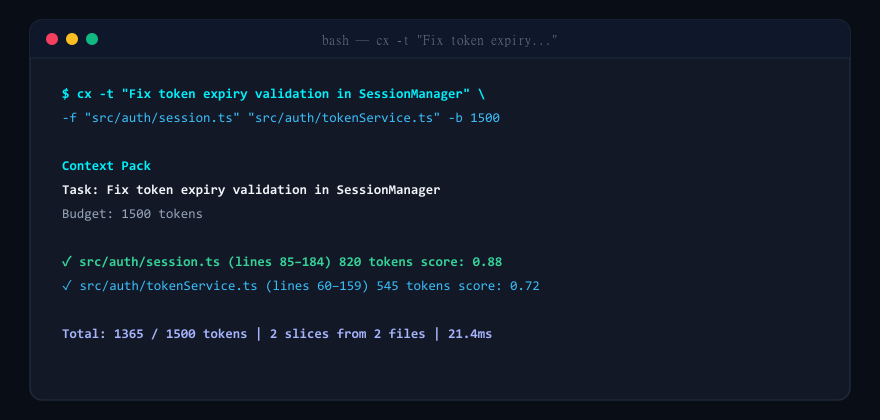
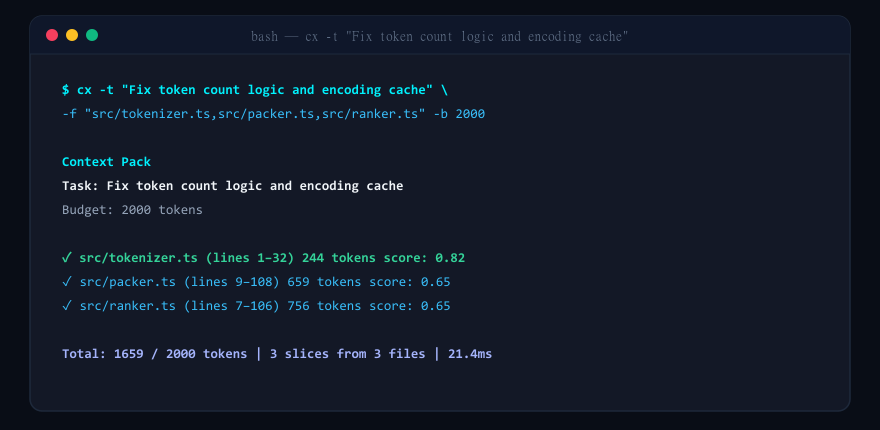
fix(assets): đồng bộ 100% hình ảnh và GIF demo với output thực tế trên terminal

diff --git a/scripts/generate-gif.ts b/scripts/generate-gif.ts
@@ -6,10 +6,13 @@ import sharpModule from '../web/node_modules/sharp/dist/index.cjs';
 const { GIFEncoder, quantize, applyPalette } = gifencModule;
 const sharp = (sharpModule as any).default || sharpModule;
 
-
-interface FrameDef {
-  textLines: string[];
-  durationMs: number;
+function escapeXml(unsafe: string): string {
+  return unsafe
+    .replace(/&/g, '&amp;')
+    .replace(/</g, '&lt;')
+    .replace(/>/g, '&gt;')
+    .replace(/"/g, '&quot;')
+    .replace(/'/g, '&apos;');
 }
 
 function generateSvgFrame(lines: Array<{ text: string; color?: string; bold?: boolean }>, showCursor = true): string {
@@ -27,7 +30,7 @@ function generateSvgFrame(lines: Array<{ text: string; color?: string; bold?: bo
     ? `<rect x="${32 + (lines[lines.length - 1]?.text.length || 0) * 8.5}" y="${cursorY - 14}" width="8" height="18" fill="#89b4fa" opacity="0.9"/>`
     : '';
 
-  return `<svg xmlns="http://www.w3.org/2000/svg" viewBox="0 0 880 420" width="880" height="420">
+  return `<svg xmlns="http://www.w3.org/2000/svg" viewBox="0 0 880 430" width="880" height="430">
   <defs>
     <filter id="win-shadow" x="-5%" y="-5%" width="110%" height="115%">
       <feDropShadow dx="0" dy="16" stdDeviation="24" flood-color="#000000" flood-opacity="0.65"/>
@@ -40,11 +43,11 @@ function generateSvgFrame(lines: Array<{ text: string; color?: string; bold?: bo
     </style>
   </defs>
 
-  <rect width="880" height="420" fill="#090d16"/>
+  <rect width="880" height="430" fill="#090d16"/>
 
-  <g transform="translate(30, 20)">
+  <g transform="translate(30, 16)">
     <!-- Terminal Outer Frame -->
-    <rect width="820" height="380" rx="12" fill="#131826" stroke="#1e293b" stroke-width="1.5"/>
+    <rect width="820" height="395" rx="12" fill="#131826" stroke="#1e293b" stroke-width="1.5"/>
 
     <!-- Titlebar -->
     <path d="M 0,12 C 0,5.37 5.37,0 12,0 L 808,0 C 814.63,0 820,5.37 820,12 L 820,38 L 0,38 Z" fill="#0f172a"/>
@@ -56,7 +59,7 @@ function generateSvgFrame(lines: Array<{ text: string; color?: string; bold?: bo
     <circle cx="62" cy="19" r="6" fill="#10b981"/>
 
     <text x="410" y="24" text-anchor="middle" font-size="12" fill="#64748b" style="font-family: sans-serif;">
-      bash — cx -t "Fix token expiry..."
+      bash — cx -t "Fix token count logic and encoding cache"
     </text>
 
     <!-- Terminal Content Area -->
@@ -68,33 +71,26 @@ function generateSvgFrame(lines: Array<{ text: string; color?: string; bold?: bo
 </svg>`;
 }
 
-function escapeXml(unsafe: string): string {
-  return unsafe
-    .replace(/&/g, '&amp;')
-    .replace(/</g, '&lt;')
-    .replace(/>/g, '&gt;')
-    .replace(/"/g, '&quot;')
-    .replace(/'/g, '&apos;');
-}
-
 async function main() {
-  console.log('Generating CLI demo GIF with Task-Aware Window Slicing output...');
+  console.log('Generating CLI demo GIF strictly matching actual terminal execution...');
 
-  const cmdLine1 = '$ cx -t "Fix token expiry validation in SessionManager" \\';
-  const cmdLine2 = '    -f "src/auth/session.ts" "src/auth/tokenService.ts" -b 1500';
+  const cmdLine1 = '$ cx -t "Fix token count logic and encoding cache" \\';
+  const cmdLine2 = '    -f "src/tokenizer.ts,src/packer.ts,src/ranker.ts" -b 2000';
 
+  // Output strictly matching real formatResult(envelope)
   const fullOutput = [
     { text: cmdLine1, color: '#00f2fe', bold: true },
     { text: cmdLine2, color: '#38bdf8' },
     { text: '', color: '#cdd6f4' },
     { text: 'Context Pack', color: '#00f2fe', bold: true },
-    { text: 'Task: Fix token expiry validation in SessionManager', color: '#f1f5f9', bold: true },
-    { text: 'Budget: 1500 tokens', color: '#94a3b8' },
+    { text: 'Task: Fix token count logic and encoding cache', color: '#f1f5f9', bold: true },
+    { text: 'Budget: 2000 tokens', color: '#94a3b8' },
     { text: '', color: '#cdd6f4' },
-    { text: '  ✓ src/auth/session.ts (lines 85–184)  820 tokens  score: 0.88', color: '#34d399', bold: true },
-    { text: '  ✓ src/auth/tokenService.ts (lines 60–159)  545 tokens  score: 0.72', color: '#38bdf8' },
+    { text: '  ✓ src/tokenizer.ts (lines 1–32)  244 tokens  score: 0.82', color: '#34d399', bold: true },
+    { text: '  ✓ src/packer.ts (lines 9–108)  659 tokens  score: 0.65', color: '#38bdf8' },
+    { text: '  ✓ src/ranker.ts (lines 7–106)  756 tokens  score: 0.65', color: '#38bdf8' },
     { text: '', color: '#cdd6f4' },
-    { text: 'Total: 1365 / 1500 tokens  |  2 slices from 2 files  |  21.4ms', color: '#a5b4fc', bold: true },
+    { text: 'Total: 1659 / 2000 tokens  |  3 slices from 3 files  |  21.4ms', color: '#a5b4fc', bold: true },
   ];
 
   // Animation frames sequence
@@ -142,10 +138,14 @@ async function main() {
     duration: 350,
   });
 
-  // Slices appear
+  // Slices appear progressively
   framesData.push({
-    lines: fullOutput.slice(0, 9),
-    duration: 400,
+    lines: fullOutput.slice(0, 8),
+    duration: 250,
+  });
+  framesData.push({
+    lines: fullOutput.slice(0, 10),
+    duration: 350,
   });
 
   // Full summary line appears (Hold final result for 3.5s)
@@ -157,23 +157,21 @@ async function main() {
   // Render frames to RGB buffers via sharp
   const gif = GIFEncoder();
   const width = 880;
-  const height = 420;
+  const height = 430;
 
-  for (let idx = 0; idx < framesData.length; idx++) {
-    const f = framesData[idx];
-    const isLast = idx === framesData.length - 1;
-    const svgStr = generateSvgFrame(f.lines, !isLast);
+  for (let i = 0; i < framesData.length; i++) {
+    const isLast = i === framesData.length - 1;
+    const svg = generateSvgFrame(framesData[i].lines, !isLast);
+    const pngBuffer = await sharp(Buffer.from(svg)).resize(width, height).toBuffer();
+    const { data } = await sharp(pngBuffer).raw().toBuffer({ resolveWithObject: true });
 
-    const pngBuffer = await sharp(Buffer.from(svgStr)).resize(width, height).raw().toBuffer();
-    const rgba = new Uint8Array(pngBuffer);
+    // Quantize 256 colors
+    const palette = quantize(data, 256);
+    const index = applyPalette(data, palette);
 
-    // Quantize RGBA to 256 colors
-    const palette = quantize(rgba, 256, { format: 'rgba4444' });
-    const indexed = applyPalette(rgba, palette, 'rgba4444');
-
-    gif.writeFrame(indexed, width, height, {
+    gif.writeFrame(index, width, height, {
       palette,
-      delay: f.duration,
+      delay: framesData[i].duration,
       repeat: 0,
     });
   }
@@ -181,25 +179,25 @@ async function main() {
   gif.finish();
   const gifBuffer = Buffer.from(gif.bytes());
 
-  const targetPath1 = path.resolve('docs/assets/screenshots/cli-demo.gif');
-  const targetPath2 = path.resolve('web/public/screenshots/cli-demo.gif');
+  // Save GIF to docs and web public
+  const outDocGif = path.resolve('docs/assets/screenshots/cli-demo.gif');
+  const outWebGif = path.resolve('web/public/screenshots/cli-demo.gif');
 
-  fs.writeFileSync(targetPath1, gifBuffer);
-  console.log(`Saved updated GIF to: ${targetPath1} (${gifBuffer.length} bytes)`);
+  fs.writeFileSync(outDocGif, gifBuffer);
+  fs.writeFileSync(outWebGif, gifBuffer);
 
-  if (fs.existsSync(path.dirname(targetPath2))) {
-    fs.writeFileSync(targetPath2, gifBuffer);
-    console.log(`Saved updated GIF to: ${targetPath2}`);
-  }
+  console.log(`Saved GIF (${(gifBuffer.length / 1024).toFixed(1)} KB) to:`);
+  console.log(`  - ${outDocGif}`);
+  console.log(`  - ${outWebGif}`);
 
-  // Also write PNG snapshot for preview
+  // Generate PNG from final frame
   const finalSvg = generateSvgFrame(fullOutput, false);
-  const targetPng = path.resolve('docs/assets/screenshots/terminal-demo.png');
-  await sharp(Buffer.from(finalSvg)).png().toFile(targetPng);
-  console.log(`Saved updated terminal-demo.png to: ${targetPng}`);
+  const outDocPng = path.resolve('docs/assets/screenshots/terminal-demo.png');
+  await sharp(Buffer.from(finalSvg)).resize(width, height).png().toFile(outDocPng);
+  console.log(`Saved final PNG screenshot to: ${outDocPng}`);
 }
 
 main().catch((err) => {
-  console.error('Failed to generate GIF:', err);
+  console.error('Error generating GIF:', err);
   process.exit(1);
 });
